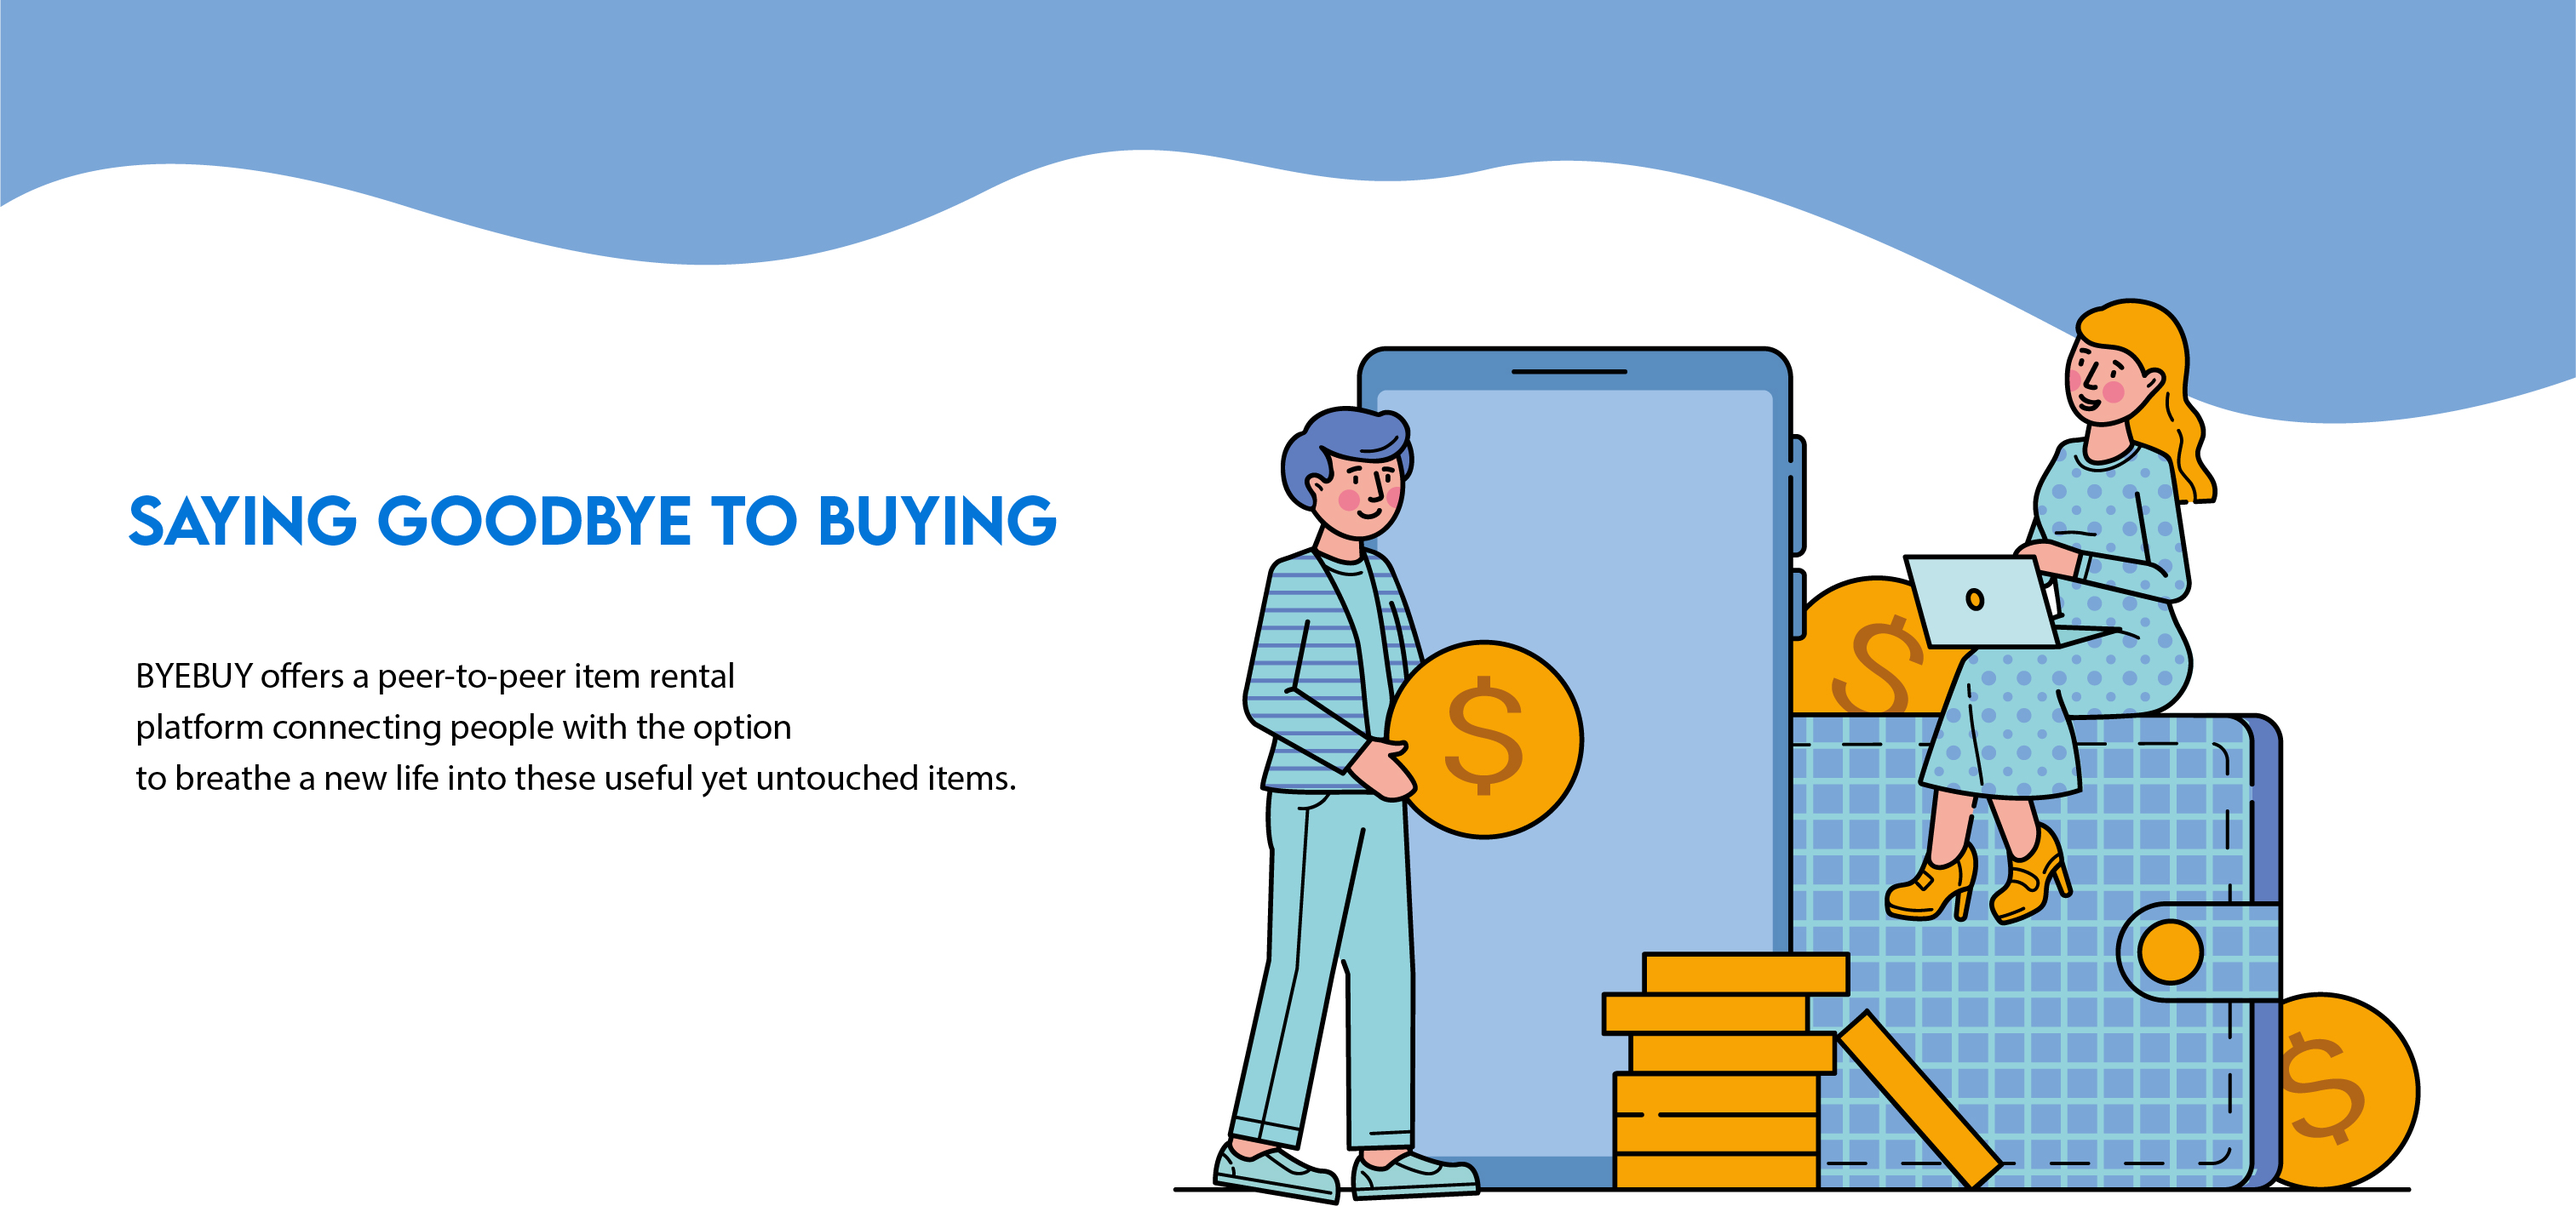
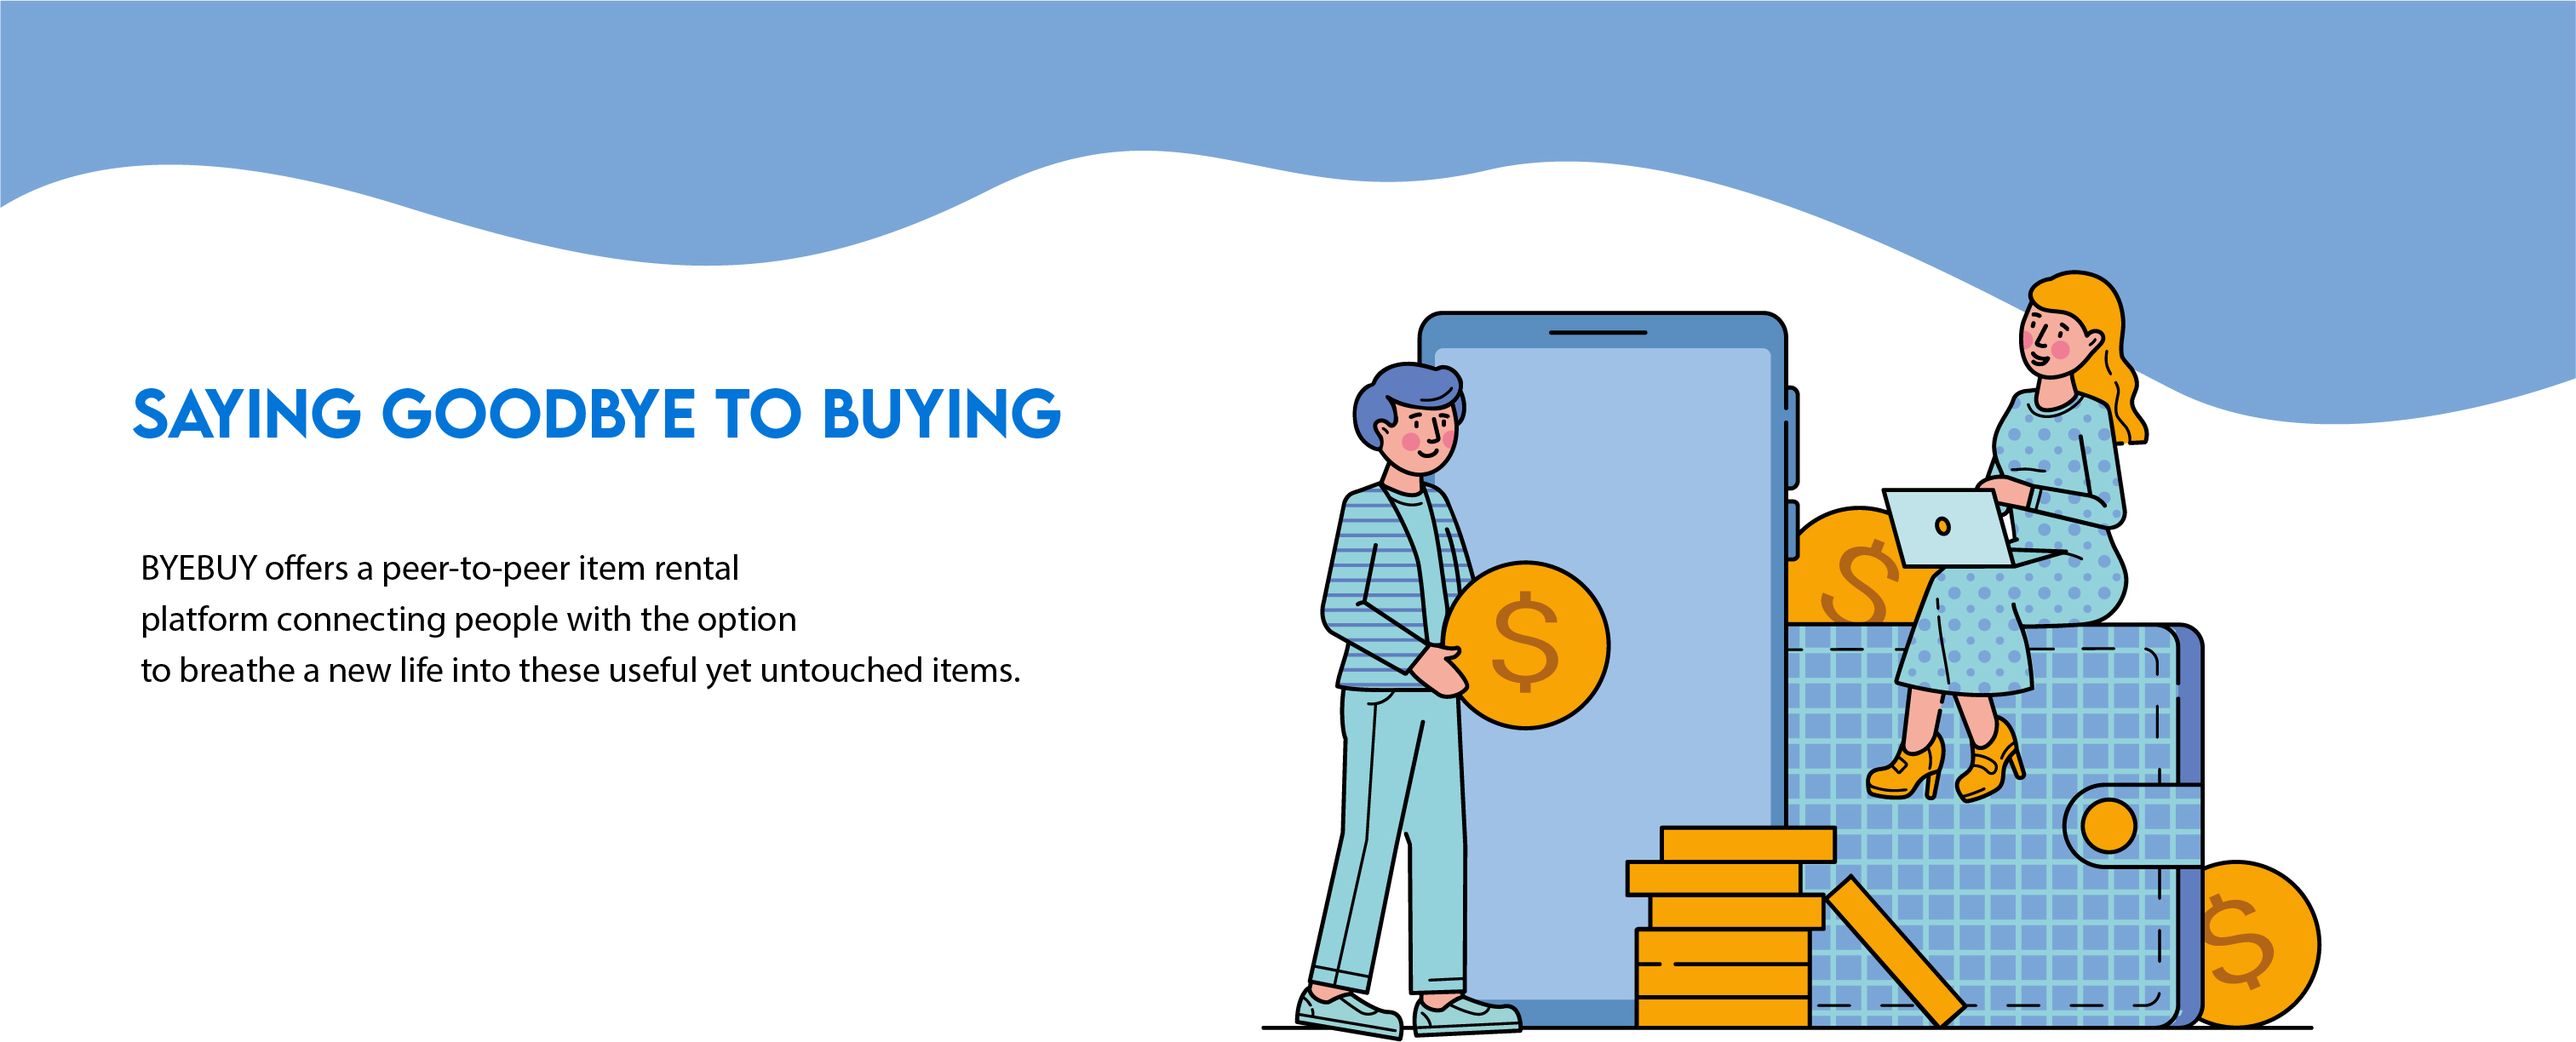
fixes

Changed region(s): [[0.0, 0.1242, 1.0, 1.0], [0.0311, 0.3725, 0.435, 0.4657], [0.0311, 0.5278, 0.404, 0.652]]

diff --git a/index.html b/index.html
@@ -35,16 +35,17 @@
       max-width: 100vw;
 
       /* Center and scale the image nicely */
-      -webkit-background-size: cover;
-      -moz-background-size: cover;
-      -o-background-size: cover;
-      background-size: cover;
+      -webkit-background-size: contain;
+      -moz-background-size: contain;
+      -o-background-size: contain;
+      background-size: contain;
+      background-repeat:no-repeat;
 
     }
   </style>
 </head>
 
-<body style="background-color:#f8f9fa;">
+<body style="background-color:#fff;">
   <!-- navbar -->
   <nav class="navbar navbar-expand-lg navbar-light bg-light">
     <a class="navbar-brand" href="index.html"><img src="images/logo.png" width="100" height="30" alt="logo"></a>
@@ -73,7 +74,7 @@
 
 
    <!-- footer -->
-   <footer style="position: absolute;width: 100%;" class="footer mt-auto py-3 bg-light">
+   <footer style="position: absolute;bottom:0;width: 100%;" class="footer mt-auto py-3 bg-light">
       <div style="text-align:center" class="container">
          <a href="#" class="fa fa-facebook fa-lg"></a>
          <a href="#" class="fa fa-twitter fa-lg"></a>
